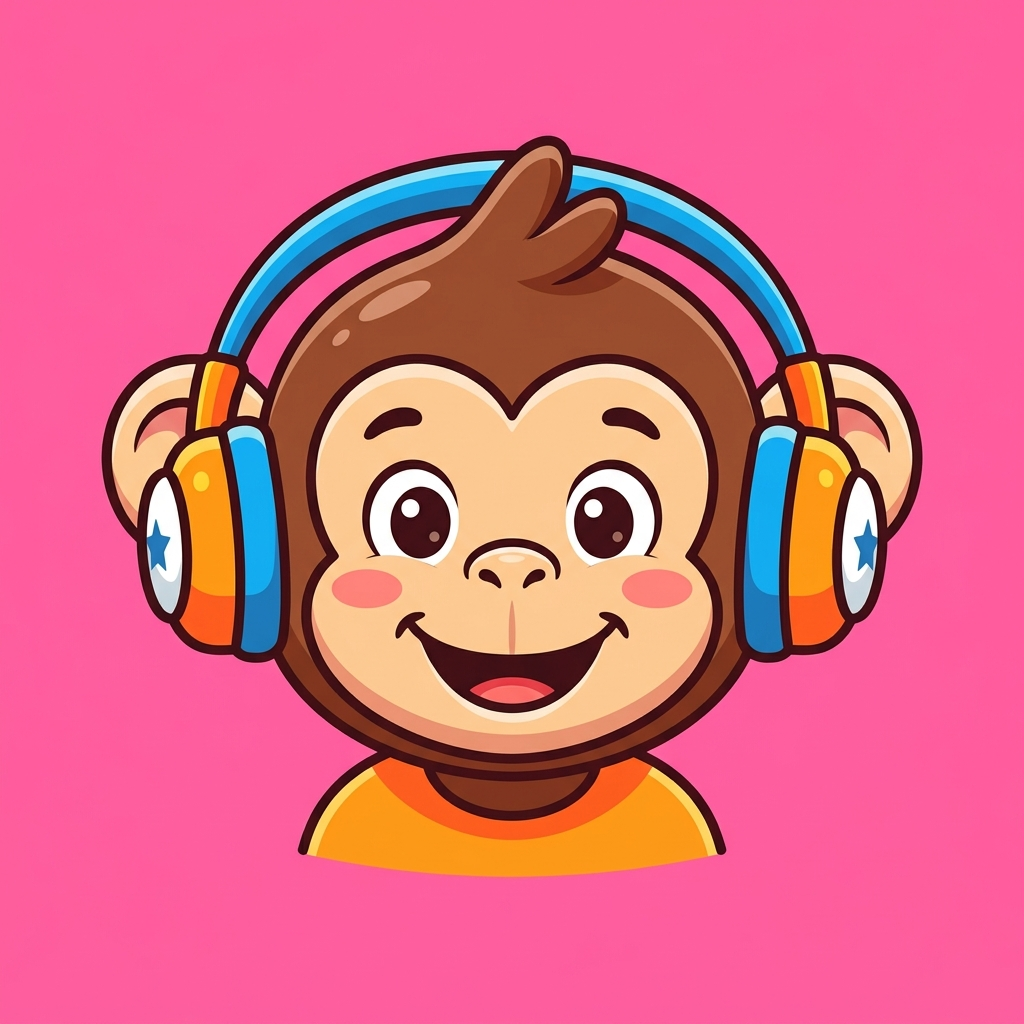
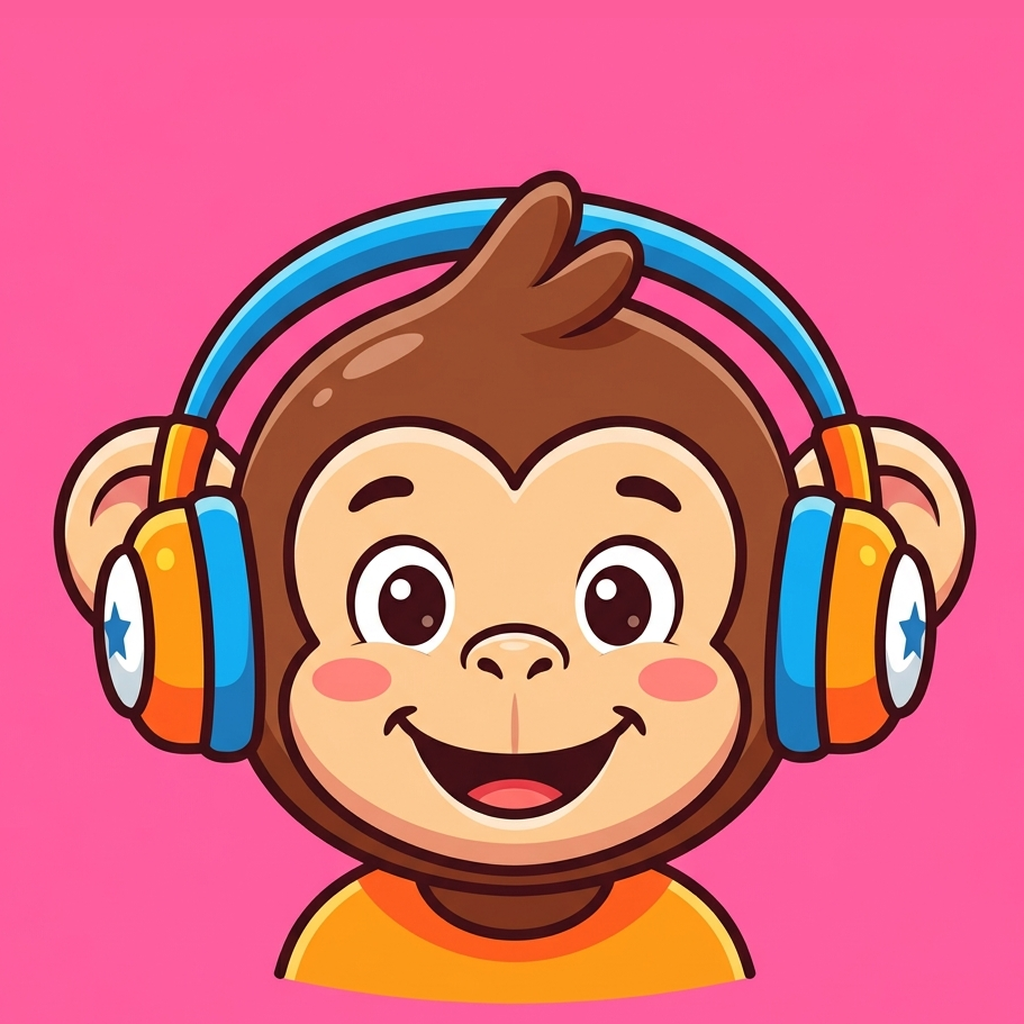
auto-commit for 20d9ee11-366e-4813-acfe-867883d9efc5

diff --git a/scripts/normalize_avatars.py b/scripts/normalize_avatars.py
@@ -1,0 +1,62 @@
+import glob, os, shutil
+from PIL import Image
+
+DIR = "/app/frontend/public/avatars"
+BACKUP = os.path.join(DIR, "_orig_backup")
+os.makedirs(BACKUP, exist_ok=True)
+
+TOP_MARGIN = 0.05      # small even margin above the head
+BOTTOM_MARGIN = 0.02   # character bottom nearly touches the frame bottom
+THRESH_BOTTOM_GAP = 6.0  # only fix avatars whose bottom gap exceeds this (%)
+
+
+def content_bbox(im):
+    w, h = im.size
+    px = im.load()
+    bg = px[3, 3]
+
+    def isbg(c):
+        return abs(c[0] - bg[0]) + abs(c[1] - bg[1]) + abs(c[2] - bg[2]) < 40
+
+    top, bottom, left, right = h, 0, w, 0
+    for y in range(h):
+        for x in range(0, w, 4):
+            if not isbg(px[x, y]):
+                top = min(top, y); bottom = max(bottom, y)
+                left = min(left, x); right = max(right, x)
+    return left, top, right, bottom, bg
+
+
+def normalize(path):
+    im = Image.open(path).convert("RGB")
+    w, h = im.size
+    left, top, right, bottom, bg = content_bbox(im)
+    cw = right - left
+    ch = bottom - top
+    bottom_gap = (h - 1 - bottom) / h * 100
+    if bottom_gap <= THRESH_BOTTOM_GAP:
+        return f"skip {os.path.basename(path)} (bottom_gap={bottom_gap:.1f}%)"
+
+    # choose square crop size S so content fits with desired margins
+    S = max(ch / (1 - TOP_MARGIN - BOTTOM_MARGIN), cw / 0.9)
+    S = int(round(S))
+    bottom_margin_px = BOTTOM_MARGIN * S
+    # position of content inside the SxS output
+    crop_left = int(round(left - (S - cw) / 2))
+    crop_top = int(round(bottom - (S - bottom_margin_px)))
+
+    canvas = Image.new("RGB", (S, S), bg)
+    canvas.paste(im, (-crop_left, -crop_top))
+    out = canvas.resize((1024, 1024), Image.LANCZOS)
+    out.save(path)
+    return f"FIXED {os.path.basename(path)} (was bottom_gap={bottom_gap:.1f}%, S={S})"
+
+
+files = sorted(glob.glob(os.path.join(DIR, "*.png")))
+for f in files:
+    # backup once
+    b = os.path.join(BACKUP, os.path.basename(f))
+    if not os.path.exists(b):
+        shutil.copy2(f, b)
+for f in files:
+    print(normalize(f))
